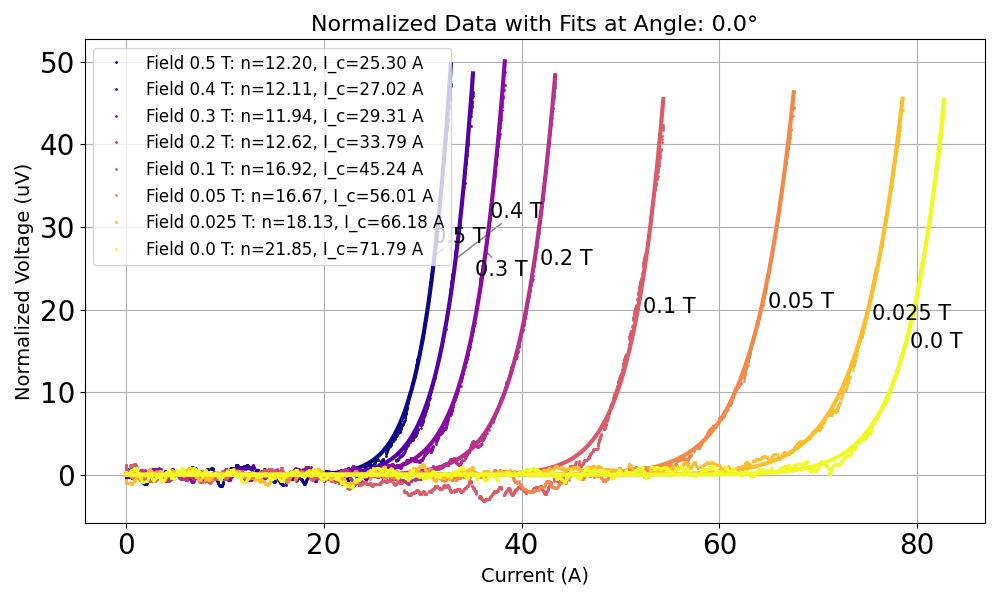
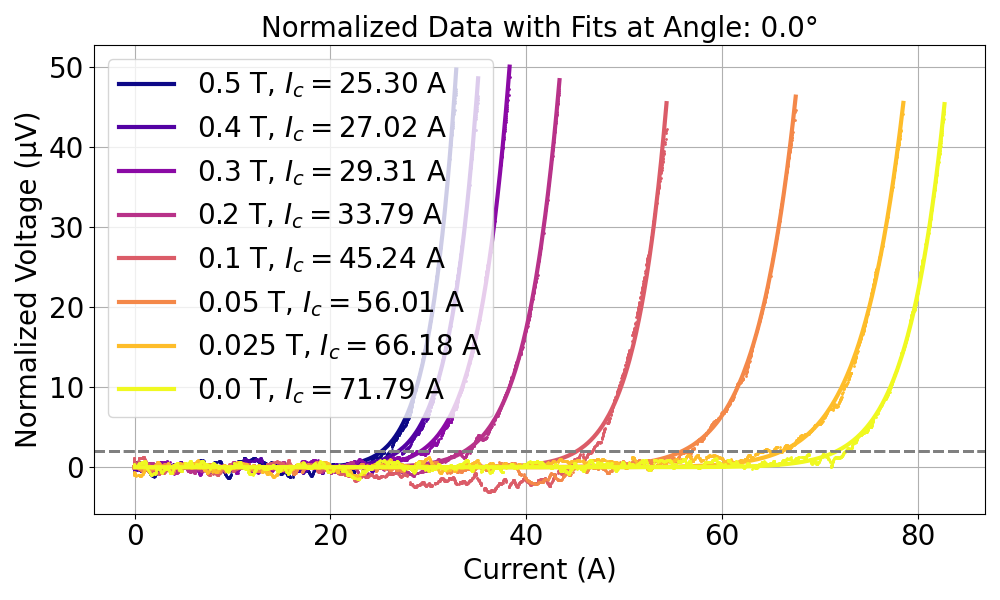
Updated plots with 3D

diff --git a/Baseline_correction.py b/Baseline_correction.py
@@ -8,17 +8,15 @@ from scipy.stats import linregress
 import matplotlib.cm as cm
 import matplotlib.colors as mcolors
 
-# Define the power law function
 def power_law(I, I_c, n):
     V_c = 2.05  # 20.5 microvolts
-    return V_c * (I / (I_c + 1e-9)) ** n  # Add a small offset to I_c to prevent division by zero
+    return V_c * (I / (I_c + 1e-9)) ** n  # Add small offset to I_c to prevent division by zero
 
 def normalize_dataset(data):
     """Fit a linear baseline between 0 and 20A and normalize the data."""
     mask = (data[:, 0] > 0) & (data[:, 0] <= 20)
     baseline_data = data[mask]
 
-    # Fit a linear baseline
     if len(baseline_data) > 1:
         slope, intercept, _, _, _ = linregress(baseline_data[:, 0], baseline_data[:, 1])
     else:
@@ -26,29 +24,24 @@ def normalize_dataset(data):
 
     baseline = slope * data[:, 0] + intercept
     normalized_voltage = data[:, 1] - baseline
-    normalized_data = np.column_stack((data[:, 0], normalized_voltage))
-
-    return normalized_data
+    return np.column_stack((data[:, 0], normalized_voltage))
 
 def adjust_text_position(texts, ax):
-    """Adjust the position of text annotations to minimize overlap."""
     from adjustText import adjust_text
-    adjust_text(texts, ax=ax, only_move={'points': 'y', 'text': 'y'}, arrowprops=dict(arrowstyle='-', color='gray'))
+    adjust_text(texts, ax=ax, only_move={'points': 'y', 'text': 'y', 'objects': 'x'}, expand_points=(1.2, 1.5),
+                force_text=(0.2, 0.5), arrowprops=dict(arrowstyle='-', color='gray'))
 
-def process_and_plot_with_fit(directory):
+def process_and_plot_with_fit(directory, show_labels=True, font_size=20):
     data_by_angle = {}
-    cmap = cm.plasma  # Use the plasma colormap for better contrast
+    cmap = cm.plasma  
     
     for filename in os.listdir(directory):
         if filename.endswith(".txt"):
             filepath = os.path.join(directory, filename)
-
             with open(filepath, "r") as file:
                 lines = file.readlines()
-
-                angle = None
-                field = None
-
+                angle, field = None, None
+                
                 for line in lines:
                     if "Angle (deg.)" in line:
                         angle = float(re.search(r"[-+]?\d*\.\d+|\d+", line).group())
@@ -56,10 +49,8 @@ def process_and_plot_with_fit(directory):
                         field = float(re.search(r"[-+]?\d*\.\d+|\d+", line).group())
                     if angle is not None and field is not None:
                         break
-
-                start_data = False
-                current_data = []
-
+                
+                start_data, current_data = False, []
                 for line in lines:
                     if start_data:
                         try:
@@ -68,78 +59,69 @@ def process_and_plot_with_fit(directory):
                             continue
                     if "Current / A" in line:
                         start_data = True
-
+                
                 current_data = np.array(current_data)
-
                 normalized_data = normalize_dataset(current_data)
-
                 if angle not in data_by_angle:
                     data_by_angle[angle] = []
                 data_by_angle[angle].append((field, normalized_data))
-
+    
     for angle, datasets in data_by_angle.items():
         plt.figure(figsize=(10, 6))
-        texts = []  # To store text objects for adjustment
-
+        texts = []
+        ic_texts = []
         num_datasets = len(datasets)
 
         for i, (field, data) in enumerate(sorted(datasets, reverse=True)):
             positive_mask = data[:, 0] > 0
-            I = data[positive_mask, 0]
-            V = data[positive_mask, 1]
-
+            I, V = data[positive_mask, 0], data[positive_mask, 1]
             try:
                 popt, _ = curve_fit(power_law, I, V, p0=[10, 2])
                 I_c, n = popt
-
-                line_color = cmap(i / (num_datasets - 1))  # Uniformly index colormap between 0 and 1
-
-                plt.plot(
-                    data[:, 0],
-                    data[:, 1],
-                    "o",
-                    markersize=1,
-                    label=f"Field {field} T: n={n:.2f}, I_c={I_c:.2f} A",
-                    color=line_color,
-                )
-                plt.plot(
-                    data[:, 0],
-                    power_law(data[:, 0], *popt),
-                    "-",
-                    linewidth=3,
-                    color=line_color,
-                )
-                text = plt.text(
-                    data[:, 0].max() * 0.95,
-                    power_law(data[:, 0].max() * 0.95, *popt),
-                    f"{field} T",
-                    fontsize=15,
-                    color="black",
-                )
-                texts.append(text)
+                line_color = cmap(i / (num_datasets - 1))
+                
+                plt.plot(data[:, 0], data[:, 1], "o", markersize=1, color=line_color)
+                plt.plot(data[:, 0], power_law(data[:, 0], *popt), "-", linewidth=3, color=line_color, label=rf"{field} T, $I_c={I_c:.2f}$ A")
+                
+                plt.axhline(y=power_law(I_c, *popt), linestyle="--", color="gray", linewidth=2)
+                
+                if show_labels:
+                    text = plt.text(
+                        data[:, 0].max() * 1.05,
+                        power_law(data[:, 0].max() * 1.05, *popt) + 2.0,
+                        f"{field} T",
+                        fontsize=font_size,
+                        color="black",
+                    )
+                    texts.append(text)
+                    
+                    ic_text = plt.text(
+                        I_c + 5, power_law(I_c, *popt) + 2.0,
+                        f"{I_c:.0f} A",
+                        fontsize=font_size,
+                        color="black"
+                    )
+                    ic_texts.append(ic_text)
+                
             except RuntimeError:
                 line_color = cmap(i / (num_datasets - 1))
-                plt.plot(
-                    data[:, 0],
-                    data[:, 1],
-                    "o",
-                    label=f"Field {field} T (Fit Failed)",
-                    color=line_color,
-                )
-
+                plt.plot(data[:, 0], data[:, 1], "o", color=line_color)
+        
         ax = plt.gca()
-        adjust_text_position(texts, ax)
-
-        ax.tick_params(axis='both', which='major', labelsize=20)
-        plt.title(f"Normalized Data with Fits at Angle: {angle}°", fontsize=16)
-        plt.xlabel("Current (A)", fontsize=14)
-        plt.ylabel("Normalized Voltage (uV)", fontsize=14)
-        plt.legend(fontsize=12)
+        if show_labels:
+            adjust_text_position(texts, ax)
+            adjust_text_position(ic_texts, ax)
+        else:
+            plt.legend(fontsize=font_size)
+        
+        ax.tick_params(axis='both', which='major', labelsize=font_size)
+        plt.title(f"Normalized Data with Fits at Angle: {angle}°", fontsize=font_size)
+        plt.xlabel("Current (A)", fontsize=font_size)
+        plt.ylabel("Normalized Voltage (μV)", fontsize=font_size)
         plt.grid(True)
         plt.tight_layout()
-
         plt.savefig(f"angle_{angle}_fit_plot.png")
         plt.show()
 
 data_directory = "data"
-process_and_plot_with_fit(data_directory)
+process_and_plot_with_fit(data_directory, show_labels=False, font_size=20)

diff --git a/3D_plot.py b/3D_plot.py
@@ -1,0 +1,82 @@
+import os
+import numpy as np
+import matplotlib.pyplot as plt
+from mpl_toolkits.mplot3d import Axes3D
+from matplotlib import cm
+from Baseline_correction import normalize_dataset, power_law, curve_fit
+
+def extract_data(directory):
+    data_points = []
+    
+    for filename in os.listdir(directory):
+        if filename.endswith(".txt"):
+            filepath = os.path.join(directory, filename)
+            
+            with open(filepath, "r") as file:
+                lines = file.readlines()
+                angle, field = None, None
+                
+                for line in lines:
+                    if "Angle (deg.)" in line:
+                        angle = float(line.split()[-1])
+                    if "field / T" in line:
+                        field = float(line.split()[-1])
+                    if angle is not None and field is not None:
+                        break
+                
+                start_data = False
+                current_data = []
+                
+                for line in lines:
+                    if start_data:
+                        try:
+                            current_data.append([float(x) for x in line.split()])
+                        except ValueError:
+                            continue
+                    if "Current / A" in line:
+                        start_data = True
+                
+                current_data = np.array(current_data)
+                if len(current_data) == 0:
+                    continue
+                
+                normalized_data = normalize_dataset(current_data)
+                
+                positive_mask = normalized_data[:, 0] > 0
+                I = normalized_data[positive_mask, 0]
+                V = normalized_data[positive_mask, 1]
+                
+                try:
+                    popt, _ = curve_fit(power_law, I, V, p0=[10, 2])
+                    I_c = popt[0]
+                    data_points.append((angle, field, I_c))
+                    data_points.append((180 - angle, field, I_c))  # Mirroring about 90 degrees
+                except RuntimeError:
+                    continue
+    
+    return np.array(data_points)
+
+def plot_3d_mesh(data_points):
+    fig = plt.figure(figsize=(12, 8))
+    ax = fig.add_subplot(111, projection='3d')
+    
+    angles = data_points[:, 0]
+    fields = data_points[:, 1]
+    critical_currents = data_points[:, 2]
+    
+    ax.plot_trisurf(fields, angles, critical_currents, cmap=cm.plasma, edgecolor='none')
+    
+    ax.set_xlabel("Magnetic Field (T)", fontsize=20, labelpad=15)
+    ax.set_ylabel("Angle (°)", fontsize=20, labelpad=15)
+    ax.set_zlabel("Critical Current (A)", fontsize=20, labelpad=15)
+    ax.tick_params(axis='both', which='major', labelsize=16)
+    ax.tick_params(axis='z', which='major', labelsize=16)
+    
+    plt.tight_layout()
+    plt.savefig(f"3D_plot.png")
+    plt.show()
+
+data_directory = "data"
+data_points = extract_data(data_directory)
+if len(data_points) > 0:
+    plot_3d_mesh(data_points)
